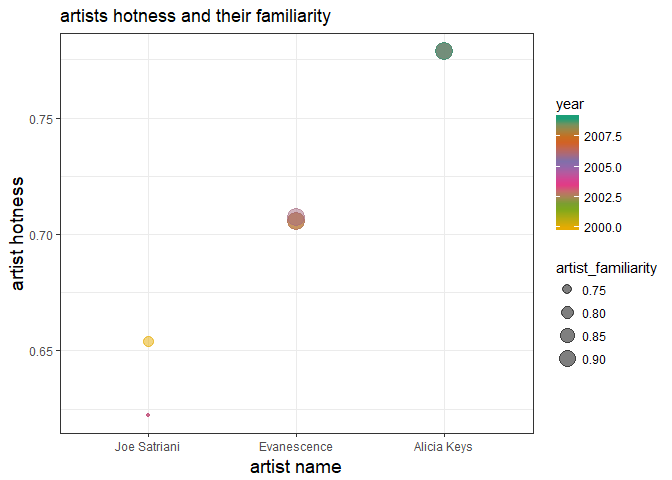
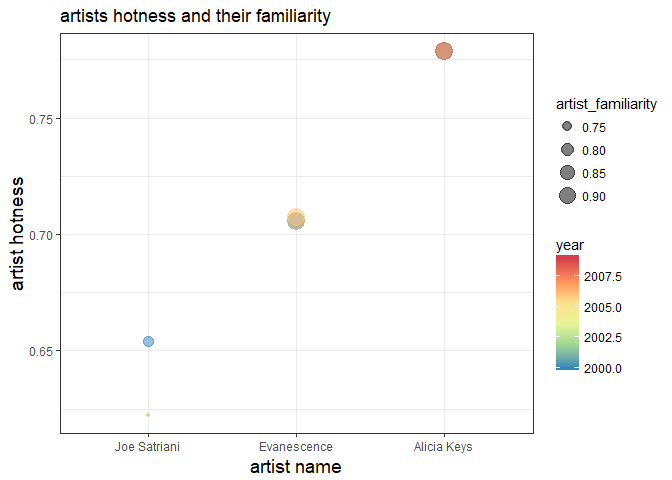
update

diff --git a/hm5/hm05_Luo_Yanchao.md b/hm5/hm05_Luo_Yanchao.md
@@ -14,6 +14,14 @@ suppressPackageStartupMessages(library(forcats))
 
 ``` r
 suppressPackageStartupMessages(library(singer))
+suppressPackageStartupMessages(library(reshape2))
+```
+
+    ## Warning: package 'reshape2' was built under R version 3.4.2
+
+``` r
+suppressPackageStartupMessages(library(RColorBrewer))
+suppressPackageStartupMessages(library(dplyr))
 ```
 
 Factor management
@@ -132,7 +140,7 @@ length(unique(singer_locations$artist_id))
 
     ## [1] 7346
 
-From the R output above. `str(singer_locations)` shows that no variables are vector. And `nrow(singer_locations)` shows that there are 10100 rows in total. I found unique of `artist_id`, `artist_name`,`name` are less than total `nrows`, so I want to factorize `artist_id`, `artist_name`,`name`.
+From the R output above. `str(singer_locations)` shows that no variable is vector. And `nrow(singer_locations)` shows that there are 10100 rows in total. I found unique of `artist_id`, `artist_name`,`name` are less than total `nrows`, so I want to factorize `artist_id`, `artist_name`,`name`.
 
 Using `as.factor`.
 
@@ -159,7 +167,7 @@ head(newsinger_locations)
     ## #   longitude <dbl>, name <chr>, city <chr>, factor_name <fctr>,
     ## #   factor_artist_name <fctr>, factor_artist_id <fctr>
 
-using `forcats`
+Using `forcats`
 
     newsinger_locations2 <- singer_locations %>%
       mutate(factor_name = as_factor(singer_locations$name),
@@ -167,7 +175,7 @@ using `forcats`
              factor_artist_id = as_factor(singer_locations$artist_id)) 
     head(newsinger_locations2)
 
-At this time the `as_factor` not work. So I check the data and found that the reason may due to many `NA` in the data.
+At this time, the `as_factor` does not work. So I checked the data and found that the reason of not working may be due to many `NA` in the data.
 
 Check the "NA"
 
@@ -182,7 +190,7 @@ if(sum(is.na(singer_locations$artist_name)!=0)) print("variable `artist_name` ha
 if(sum(is.na(singer_locations$artist_id)!=0)) print("variable `artist_id` has NA")
 ```
 
-From the code above, I found variable `name` has "NA".
+From the code above, I found variable `name` has "NA"s.
 
 Assign "no information" for "NA".
 
@@ -210,7 +218,7 @@ head(newsinger_locations3)
     ## #   longitude <dbl>, name <chr>, city <chr>, factor_name <fctr>,
     ## #   factor_artist_name <fctr>, factor_artist_id <fctr>
 
-It is work after we removing the "NA".
+The `as_factor` worked after we have removed the "NA"s.
 
 -   Name
 
@@ -299,7 +307,7 @@ head(levels(newsinger_locations3$factor_artist_id))
     ## [1] "ARACDPV1187FB58DF4" "ARYBUAO1187FB3F4EB" "AR4111G1187B9B58AB"
     ## [4] "ARQDZP31187B98D623" "AR75GYU1187B9AE47A" "ARCENE01187B9AF929"
 
-Actually,`as_factor`creates levels in the order in which they appear, and it will be the same as the original data. On the other hand `as.factor` will change the levels order of the factor. Therefore, if there is no "NA". `as_factor` is better than `as.factor`, because it will keep the original order.
+Actually,`as_factor`creates levels in order in which they appear, and it will be the same as the original data. On the other hand, `as.factor` will change the levels order of the factor. Therefore, if there is no "NA"s `as_factor` is better than `as.factor`, because it will keep the data's original order.
 
 #### Drop 0
 
@@ -316,7 +324,7 @@ nrow(Check_0)
 
     ## [1] 100
 
-We had 100 observations where year equal to "0".
+We had 100 observations which the "year" equal to "0".
 
 `droplevels()` operates on all the factors in a data frame or on a single factor.
 
@@ -329,9 +337,9 @@ nrow(remove_0)
 
     ## [1] 10000
 
-There are 100 rows remove compared with the previous data.
+There are 100 rows have been removed compared with the previous data.
 
-Check how many levels change after removing the "0".
+Checked how many levels changed after removing "0".
 
 -   name
 
@@ -347,7 +355,7 @@ nlevels(newsinger_locations3$factor_name)-nlevels(remove_0$factor_name)
 
     ## [1] 34
 
-Before we have 2913 levels of variable `name`, only 2879 levels change after removing the "0". it reduces 34 levels.
+We used to have 2913 levels of variable `name`, and left 2879 levels after removing "0". So it totally reduced 34 levels.
 
 -   artist\_name
 
@@ -363,7 +371,7 @@ nlevels(newsinger_locations3$factor_artist_name)-nlevels(remove_0$factor_artist_
 
     ## [1] 90
 
-Before we have 7498 levels of variable `name`, only 7408 levels change after removing the "0". it reduces 90 levels.
+We used to have 7498 levels of variable `name`, and left 7408 levels after removing "0". So it totally reduced 90 levels.
 
 -   artist\_id
 
@@ -379,7 +387,7 @@ nlevels(newsinger_locations3$factor_artist_id)-nlevels(remove_0$factor_artist_id
 
     ## [1] 88
 
-Before we have 7346 levels of variable `name`, only 7258 levels change after removing the "0". it reduces 88 levels.
+We used to have 7346 levels of variable `name`, and left 7258 levels after removing "0". So it totally reduced 88 levels.
 
 ``` r
 table <- data.frame( nlevels(newsinger_locations3$factor_name), nlevels(remove_0$factor_name), nlevels(newsinger_locations3$factor_artist_name), nlevels(remove_0$factor_artist_name), nlevels(newsinger_locations3$factor_artist_id), nlevels(remove_0$factor_artist_id))
@@ -424,7 +432,7 @@ fct_reorder(newsinger_locations4$factor_title, newsinger_locations4$artist_hottt
     ## [1] "Weightlessness"       "Farmers Earn Livings" "Hello There Babushka"
     ## [4] "Stop That Thing"      "Session 1"            "Cryin' Alone"
 
-The levels of `title` are reordered so that the mean of artist\_hotttnesss are in descending order.
+The levels of `title` are reordered, so that the mean of artist\_hotttnesss are in descending order.
 
 -   Reorder the `artist_name` by another variable `artist_hotttnesss`
 
@@ -460,7 +468,9 @@ The levels of `artist_name` are reordered follow by the minimum of artist\_hottt
 
 *Explore the effects of arrange(). Does merely arranging the data have any effect on, say, a figure?* *Explore the effects of reordering a factor and factor reordering coupled with arrange(). Especially, what effect does this have on a figure?*
 
--   Using `arrange` function to see how to change the factor `title` and `artist_name`. Because the data is so large, I want to consider subset of data(only seethe artist\_hotttnessslarger than 0.840 ).
+-   Using `arrange` function to see how to change the factor `title` and `artist_name`.
+
+Because the data is so large, I want to consider subset of data(only see the artist\_hotttnesss larger than 0.840 ).
 
 Plot before `arrange`.
 
@@ -493,9 +503,9 @@ newsinger_locations4 %>%
 
 ![](hm05_Luo_Yanchao_files/figure-markdown_github-ascii_identifiers/unnamed-chunk-21-1.png)
 
-We can see that `arrange` does not have any effect on the plots, and the levels are the same before and after arrange.
+We can see that `arrange` does not has any effect on the plots, and the levels are the same as before and after arranged.
 
--   Using `reordering` function to see how to change the factor `title` and `artist_name`.
+-   Using `reordering` function to see how the factor `title` and `artist_name`changed.
 
 ``` r
 newsinger_locations4 %>% 
@@ -513,7 +523,7 @@ newsinger_locations4 %>%
 
 Using `reorder` often makes plots much better. We could see who is the most popular artist and how hot he is.
 
--   Using `reorder` and `arrange` function to see how to change the factor `title` and `artist_name`.
+-   Using `reorder` and `arrange` function to see how the factor `title` and `artist_name` changed.
 
 ``` r
 newsinger_locations4 %>% 
@@ -528,7 +538,7 @@ newsinger_locations4 %>%
   theme( axis.title = element_text(size=14))
 ```
 
-![](hm05_Luo_Yanchao_files/figure-markdown_github-ascii_identifiers/unnamed-chunk-23-1.png) `arrange()` does not change the order of the levels and has no effect on the plots. There is no change for above plot compared with the graph, which only uses `reorder` function.
+![](hm05_Luo_Yanchao_files/figure-markdown_github-ascii_identifiers/unnamed-chunk-23-1.png) `arrange()` does not change the order of the levels and has no effect on the plots. There is no change for the above plot compared with the graph, which only uses `reorder` function.
 
 File I/O
 --------
@@ -597,7 +607,7 @@ I found that `artist_name` is considered as a character instead of factor, when 
 
 #### Using `saveRDS()` and `readRDS()`
 
-`saveRDS()` serializes an R object to a binary file. `saveRDS()` has more arguments, in particular compress for controlling compression, so read the help for more advanced usage.
+`saveRDS()` serializes an R object to a binary file. `saveRDS()` has more arguments, in particular compress for controlling compression, so I read the help for more advanced usage.
 
 ``` r
 saveRDS(artist_hotttnesss_max, "artist_hotttnesss_max.rds")
@@ -609,7 +619,7 @@ str(artist_hotttnesss_max1)
     ##  $ factor_artist_name   : Factor w/ 7498 levels "Motion City Soundtrack",..: 13 47 62 77 85 113 144 180 235 245 ...
     ##  $ max_artist_hotttnesss: num  0.603 0.413 0.492 0.46 0.536 ...
 
-I found this time we have change the `artist_name` to be a factor.
+I found that we have changed the `artist_name` to be a factor at this time.
 
 #### Using `dput()`/`dget()`
 
@@ -651,7 +661,7 @@ head(levels(newsinger_locations_test$factor_artist_name))
     ## [5] "Main Concept"                              
     ## [6] "Jessie Lee Miller"
 
-we could found that `artist_name` are changed by `artist_hotttnesss`. And I want to see whether save it to file in a way that will preserve this work upon re-import or not.
+We could find that `artist_name` are changed by `artist_hotttnesss`. So I save it to file,and reopen it to see whether the order is changed or not.
 
 -   `write_csv` and `read_csv`
 
@@ -705,7 +715,7 @@ head(levels(reorder_singer_locations_rds$factor_artist_name))
     ## [5] "Main Concept"                              
     ## [6] "Jessie Lee Miller"
 
-We can see that reordering works using `saveRDS` / `readRDS`.
+We can see that how reordering works using `saveRDS` / `readRDS`.
 
 -   `dput()`/`dget()`
 
@@ -722,7 +732,7 @@ head(levels(reorder_singer_locations_txt$factor_artist_name))
     ## [5] "Main Concept"                              
     ## [6] "Jessie Lee Miller"
 
-We can see that reordering works using `dput()`/`dget()`.
+We can see that how reordering works using `dput()`/`dget()`.
 
 ``` r
 artist_name_level <- tibble(original = head(levels(newsinger_locations_test$factor_artist_name)))
@@ -742,20 +752,18 @@ knitr::kable(artist_name_level)
 | Main Concept                               | +44                 | Main Concept                               | Main Concept                               |
 | Jessie Lee Miller                          | <U+00C4>I-TIEM      | Jessie Lee Miller                          | Jessie Lee Miller                          |
 
-Note that compared with the original, post-reordering country factor levels are restored using the `saveRDS()` / `readRDS()` and `dput()`/`dget()` strategy but should revert to alphabetical ordering using `write_csv()` / `read_csv()`.
+Note that compared with the original levels, post-reordering country factor levels are restored by using the `saveRDS()` / `readRDS()` and `dput()`/`dget()` strategy. But they should be reverted to alphabetical ordering by using `write_csv()` / `read_csv()`.
 
 Visualization design
 --------------------
 
 *Remake at least one figure or create a new one, in light of something you learned in the recent class meetings about visualization design and color. Maybe juxtapose your first attempt and what you obtained after some time spent working on it. Reflect on the differences.*
 
-I am interested in `hotttnesss` for different artist `duration` as the time change. Randomly pick a artist "Cannibal Corpse" to high light her/his `duration`.
+I am interested in `hotttnesss` for different artists and their hottness `duration` as the time change. Randomly picked an artist "Cannibal Corpse" to highlight her/his `duration`.
 
 #### The first graph:
 
 ``` r
-library(RColorBrewer)
-
 colour_layer <- scale_colour_manual("", 
                         labels=c("Other artist", "Cannibal Corpse"),
                         values=c("black", "red"))
@@ -781,7 +789,7 @@ colour_layer <- scale_colour_manual("",
 
 #### The second graphs:
 
-First I try to subset the data, set the hotness larger than 0.6 and year after 1999. And plot the `factor_artist_name` vs related `artist_hotttnesss`. By the same time, color the `year` and size the `familiarity`.
+First I try to subset the data, only looked at the hotness larger than 0.6 and the year after 1999. The I plot the `factor_artist_name` vs related `artist_hotttnesss`. By the same time, colored the `year` and scaled artists `familiarity`.
 
 ``` r
 newsinger_locations4 %>% 
@@ -790,15 +798,17 @@ newsinger_locations4 %>%
   filter(artist_hotttnesss>0.6, year>1999) %>% 
 ggplot( aes(x=factor_artist_name,y= artist_hotttnesss, size=artist_familiarity,colour=year)) +
     geom_point(alpha=0.5) +
-  scale_colour_distiller(palette="Dark2")+
-theme_bw() +
+  scale_colour_distiller(palette="Spectral")+
+  theme_bw() +
   labs(x="artist name", y="artist hotness", title="artists hotness and their familiarity")+
       theme( axis.title = element_text(size=14))
 ```
 
 ![](hm05_Luo_Yanchao_files/figure-markdown_github-ascii_identifiers/unnamed-chunk-35-1.png)
 
-It is very hard to found artist and his related hotness. using `fct_lump` function to found top 3 artists .
+In the picture, it is very hard to find the artist and his related hotness.
+
+using `fct_lump` function to find the top 3 artists .
 
 ``` r
 newsinger_locations4 %>% 
@@ -808,7 +818,7 @@ newsinger_locations4 %>%
   mutate(topartist_names = fct_lump(factor_artist_name1, n=3)) %>% 
 ggplot( aes(x=fct_reorder(topartist_names,artist_hotttnesss),y= artist_hotttnesss, size=artist_familiarity,colour=year)) +
     geom_point(alpha=0.5) +
-    scale_colour_distiller(palette="Dark2")+
+    scale_colour_distiller(palette="Spectral")+
 theme_bw() +
   labs(x="artist name", y="artist hotness", title="artists hotness and their familiarity")+
       theme( axis.title = element_text(size=14))
@@ -816,7 +826,7 @@ theme_bw() +
 
 ![](hm05_Luo_Yanchao_files/figure-markdown_github-ascii_identifiers/unnamed-chunk-36-1.png)
 
-Many other items which is not useful when I only want to find top 3 `artists`. Therefore, I will remove `other` in plots.
+In the graph we can see too much information which is not useful when I only want to find the top 3 `artists`. Therefore, I will remove the "usefulless" features `other` in the plots.
 
 ``` r
 newsinger_locations4 %>% 
@@ -828,7 +838,7 @@ newsinger_locations4 %>%
   droplevels() %>% 
 ggplot( aes(x=fct_reorder(topartist_names,artist_hotttnesss),y= artist_hotttnesss, size=artist_familiarity,colour=year)) +
     geom_point(alpha=0.5) +
-    scale_colour_distiller(palette="Dark2")+
+    scale_colour_distiller(palette="Spectral")+
 theme_bw() +
   labs(x="artist name", y="artist hotness", title="artists hotness and their familiarity")+
       theme( axis.title = element_text(size=14))
@@ -836,7 +846,7 @@ theme_bw() +
 
 ![](hm05_Luo_Yanchao_files/figure-markdown_github-ascii_identifiers/unnamed-chunk-37-1.png)
 
-Removing the `other`, which is `artist` hotness not in the top three. From the graph above, it can easy found that "Alicia Keys" has the highest artist hotness, and she also has higher familiarity and happen after 2007. However, "Joe Satriani" hotness ranks three but has the lower familiarity and happen in 2000.
+Removing the `other`, which `artist` hotness are not in the top three. From the graph above, we can easily find that "Alicia Keys" has the highest artist hotness, and she also has higher familiarity happened after 2007. And "Joe Satriani" hotness ranks three and he has the lower familiarity happened in 2000.
 
 Writing figures to file
 -----------------------
@@ -858,12 +868,63 @@ ggsave("my plot.pdf", width=12, height=8, plot=p)
 But I want to do more!
 ----------------------
 
+*Make a deeper exploration of the forcats packages, i.e. try more of the factor level reordering functions.*
+
+*Revalue a factor, e.g.:*
+
+*Singer version: Pick a handful of locations (they are named city, try using distinct()) that you can pinpoint to a geographical place (city, region, country, continent,…). Create an excerpt of the Singer data, filtered to just those rows. Create a (couple of) new factor(s) – you pick the name(s)! – by mapping the existing city factor levels to the new (city, region, country…) levels.* *Examples: “London, England” –&gt; “London”, “England”, “UK”, “Europe”;* *“Los Angeles, CA” –&gt; “Los Angeles”, “California”, “USA”, “Americas”;...*
+
+*“310, Louisiana” –&gt; “New Orleans”, “Louisiana”, “USA”, “Americas”.* *When you get tired, if you still have time on your hand, try to make this process of geolocalization more streamlined: you may want to try and use the separate function from tidyr.*
+
+``` r
+But_I_want_do_more <- singer_locations %>%
+  mutate(city= ifelse(is.na(city), "no information", singer_locations$city)) %>% 
+ mutate(factor_city = as_factor(city)) 
+
+p<- But_I_want_do_more%>%
+  filter(factor_city %in% c("Oxnard, CA","Los Angeles, CA","Portland, OR","Berlin, Germany","New York, NY")) %>%
+  droplevels() %>%
+  mutate(cityname = fct_recode(factor_city, "Oxnard" = "Oxnard, CA", "Los Angeles" = "Los Angeles, CA", "Portland" = "Portland, OR", "Berlin" = "Berlin, Germany", "New York" = "New York, NY")) %>% 
+  select(title, artist_name, city, cityname)
+knitr::kable(head(p))
+```
+
+| title                    | artist\_name | city            | cityname    |
+|:-------------------------|:-------------|:----------------|:------------|
+| Here's That Rainy Day    | Paul Horn    | New York, NY    | New York    |
+| Indian Deli              | Madlib       | Oxnard, CA      | Oxnard      |
+| The Ingenue (LP Version) | Little Feat  | Los Angeles, CA | Los Angeles |
+| The Breaks               | 31Knots      | Portland, OR    | Portland    |
+| At The End               | iio          | New York, NY    | New York    |
+| The Hunting Song         | Tom Lehrer   | New York, NY    | New York    |
+
+Using the `separate` function from tidyr.
+
+``` r
+p1<- But_I_want_do_more%>%
+  filter(city %in% c("Oxnard, CA","Los Angeles, CA","Portland, OR","Berlin, Germany","New York, NY")) %>%
+  droplevels() %>% 
+  select(title, artist_name, city)%>% 
+  separate(city,c("city", "state/country"), sep = ",") 
+  
+knitr::kable(head(p1))
+```
+
+| title                    | artist\_name | city        | state/country |
+|:-------------------------|:-------------|:------------|:--------------|
+| Here's That Rainy Day    | Paul Horn    | New York    | NY            |
+| Indian Deli              | Madlib       | Oxnard      | CA            |
+| The Ingenue (LP Version) | Little Feat  | Los Angeles | CA            |
+| The Breaks               | 31Knots      | Portland    | OR            |
+| At The End               | iio          | New York    | NY            |
+| The Hunting Song         | Tom Lehrer   | New York    | NY            |
+
 Report the process.
 -------------------
 
-The first question:
+There are two questions appear when I was doing the homework. The first question is:
 
-If I try to factor `year` in the `mutate` , there is an error says no applicable method for 'as\_factor' applied to an object of class "c('integer', 'numeric')".
+If I try to factor `year` in the `mutate` , there is an error says "no applicable method for 'as\_factor' applied to an object of class "c('integer', 'numeric')"".
 
      singer_locations %>%
       mutate (factor_year = as_factor(year))
@@ -878,7 +939,7 @@ typeof(singer_locations$year)
 
 So I am confused about why I can not use factor `year` in `mutate` function.
 
-The second question:
+The second question is:
 
 If I want to use the `read_csv` function, the level of the `factor_artist_name` wil alsways shows unreadable code.
 
@@ -915,7 +976,7 @@ head(levels(reorder_singer_locations_csv$factor_artist_name))
     ## [1] "'t Hof Van Commerce" "'Til Tuesday"        "*Shels"             
     ## [4] "[re:jazz]"           "+44"                 "<U+00C4>I-TIEM"
 
-The right one should be below:
+However, the right output should be below as:
 
     [1] "Motion City Soundtrack"         "Gene Chandler"                  "Paul Horn"                     
     [4] "Ronnie Earl & the Broadcasters" "Dorothy Ashby"                  "Barleyjuice"
